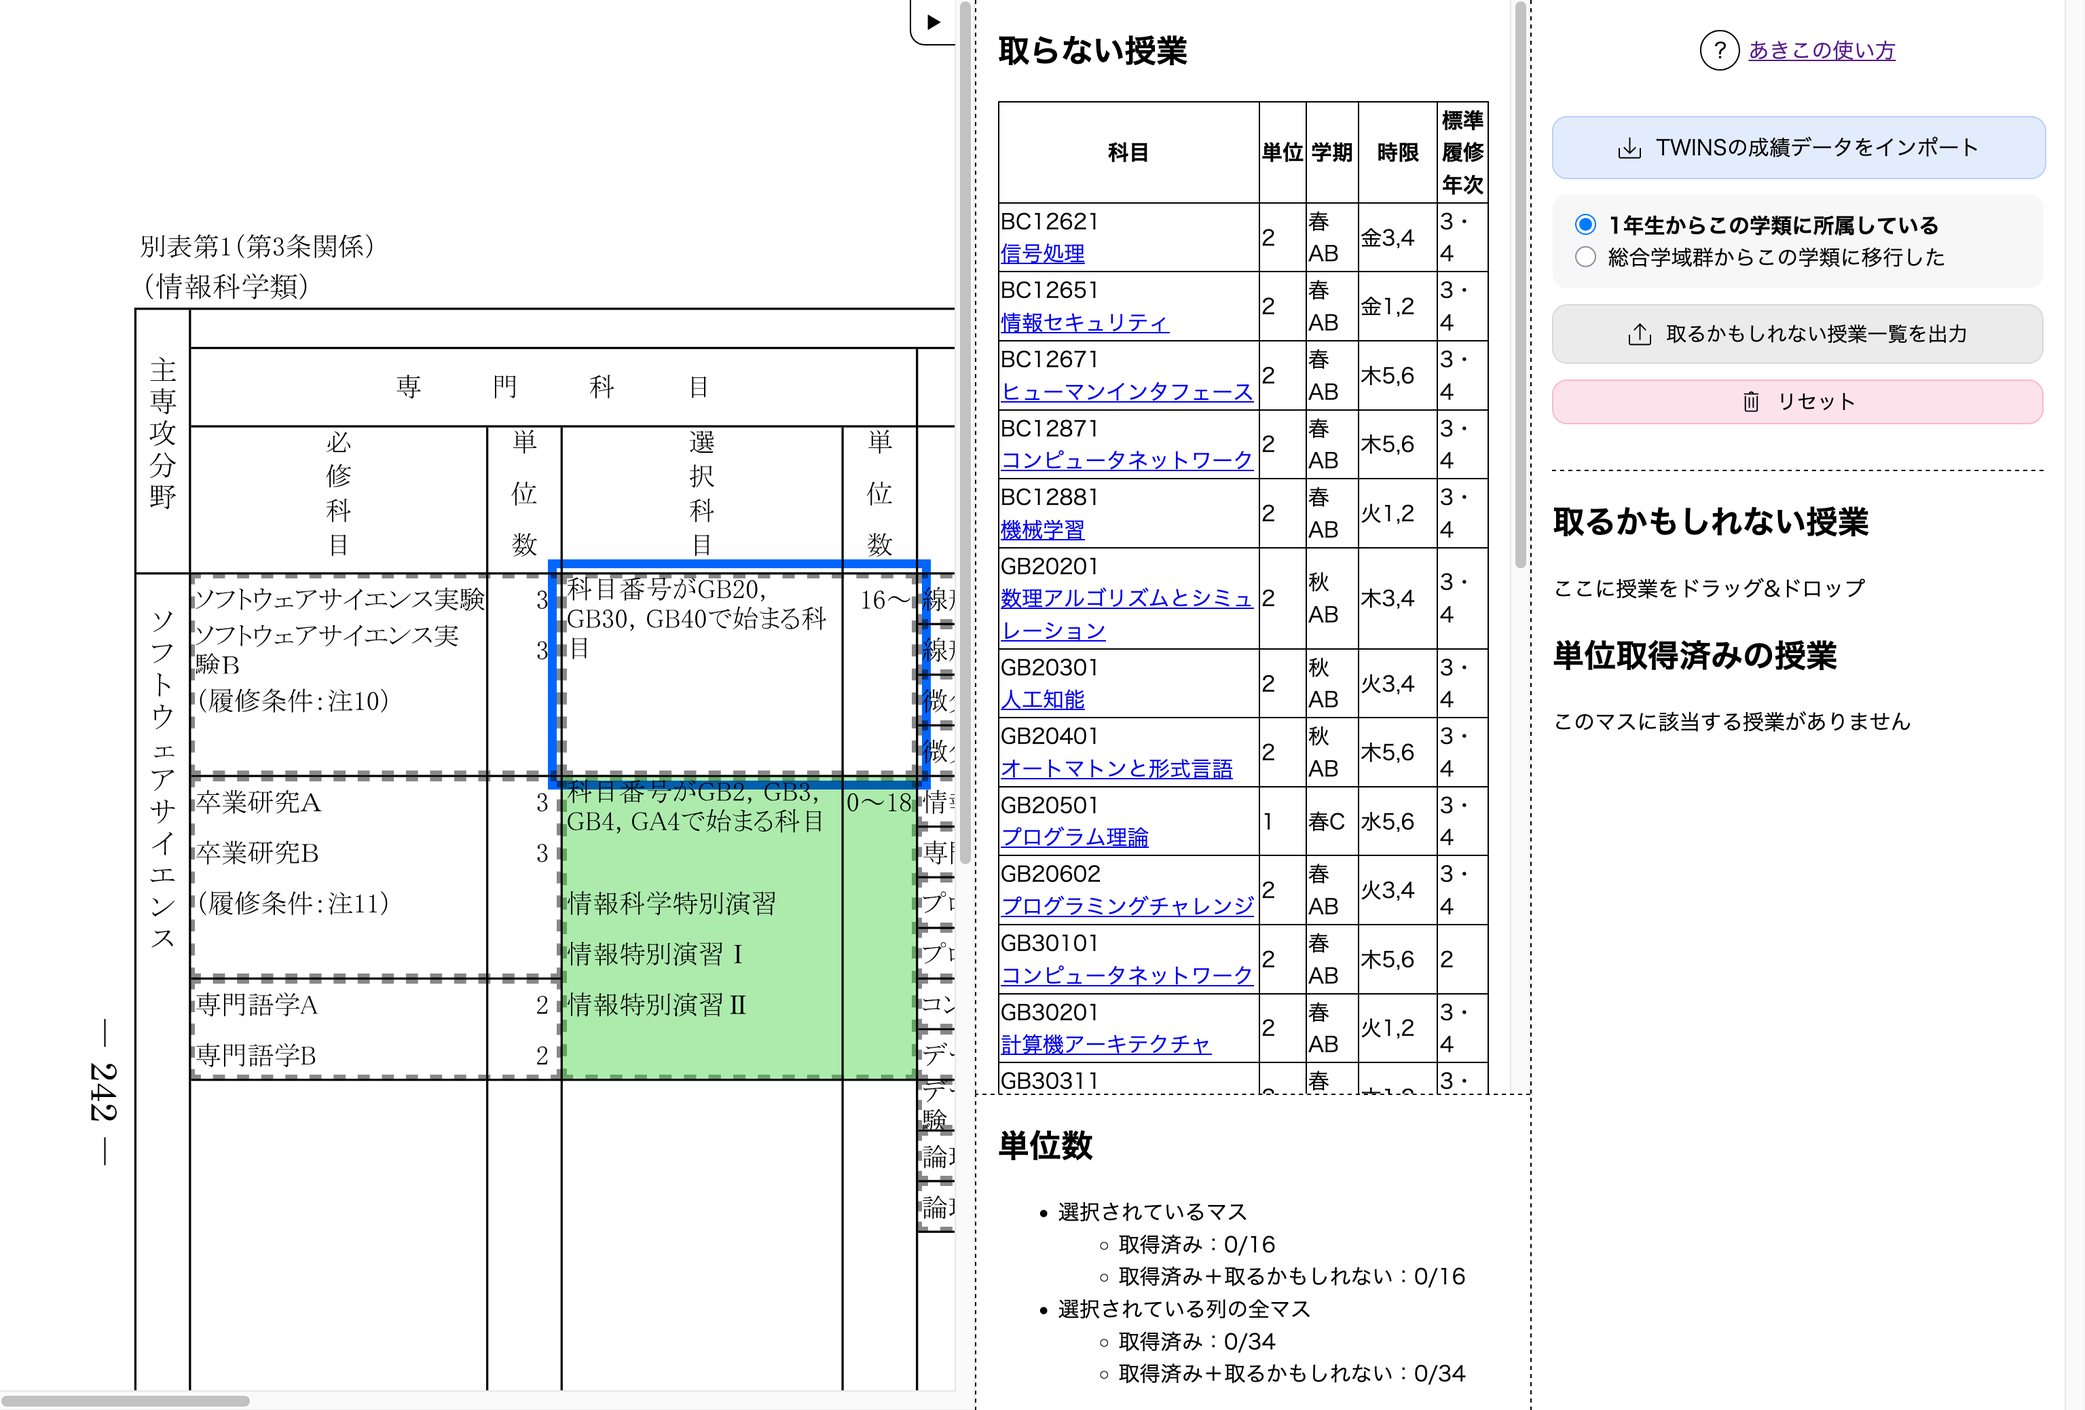
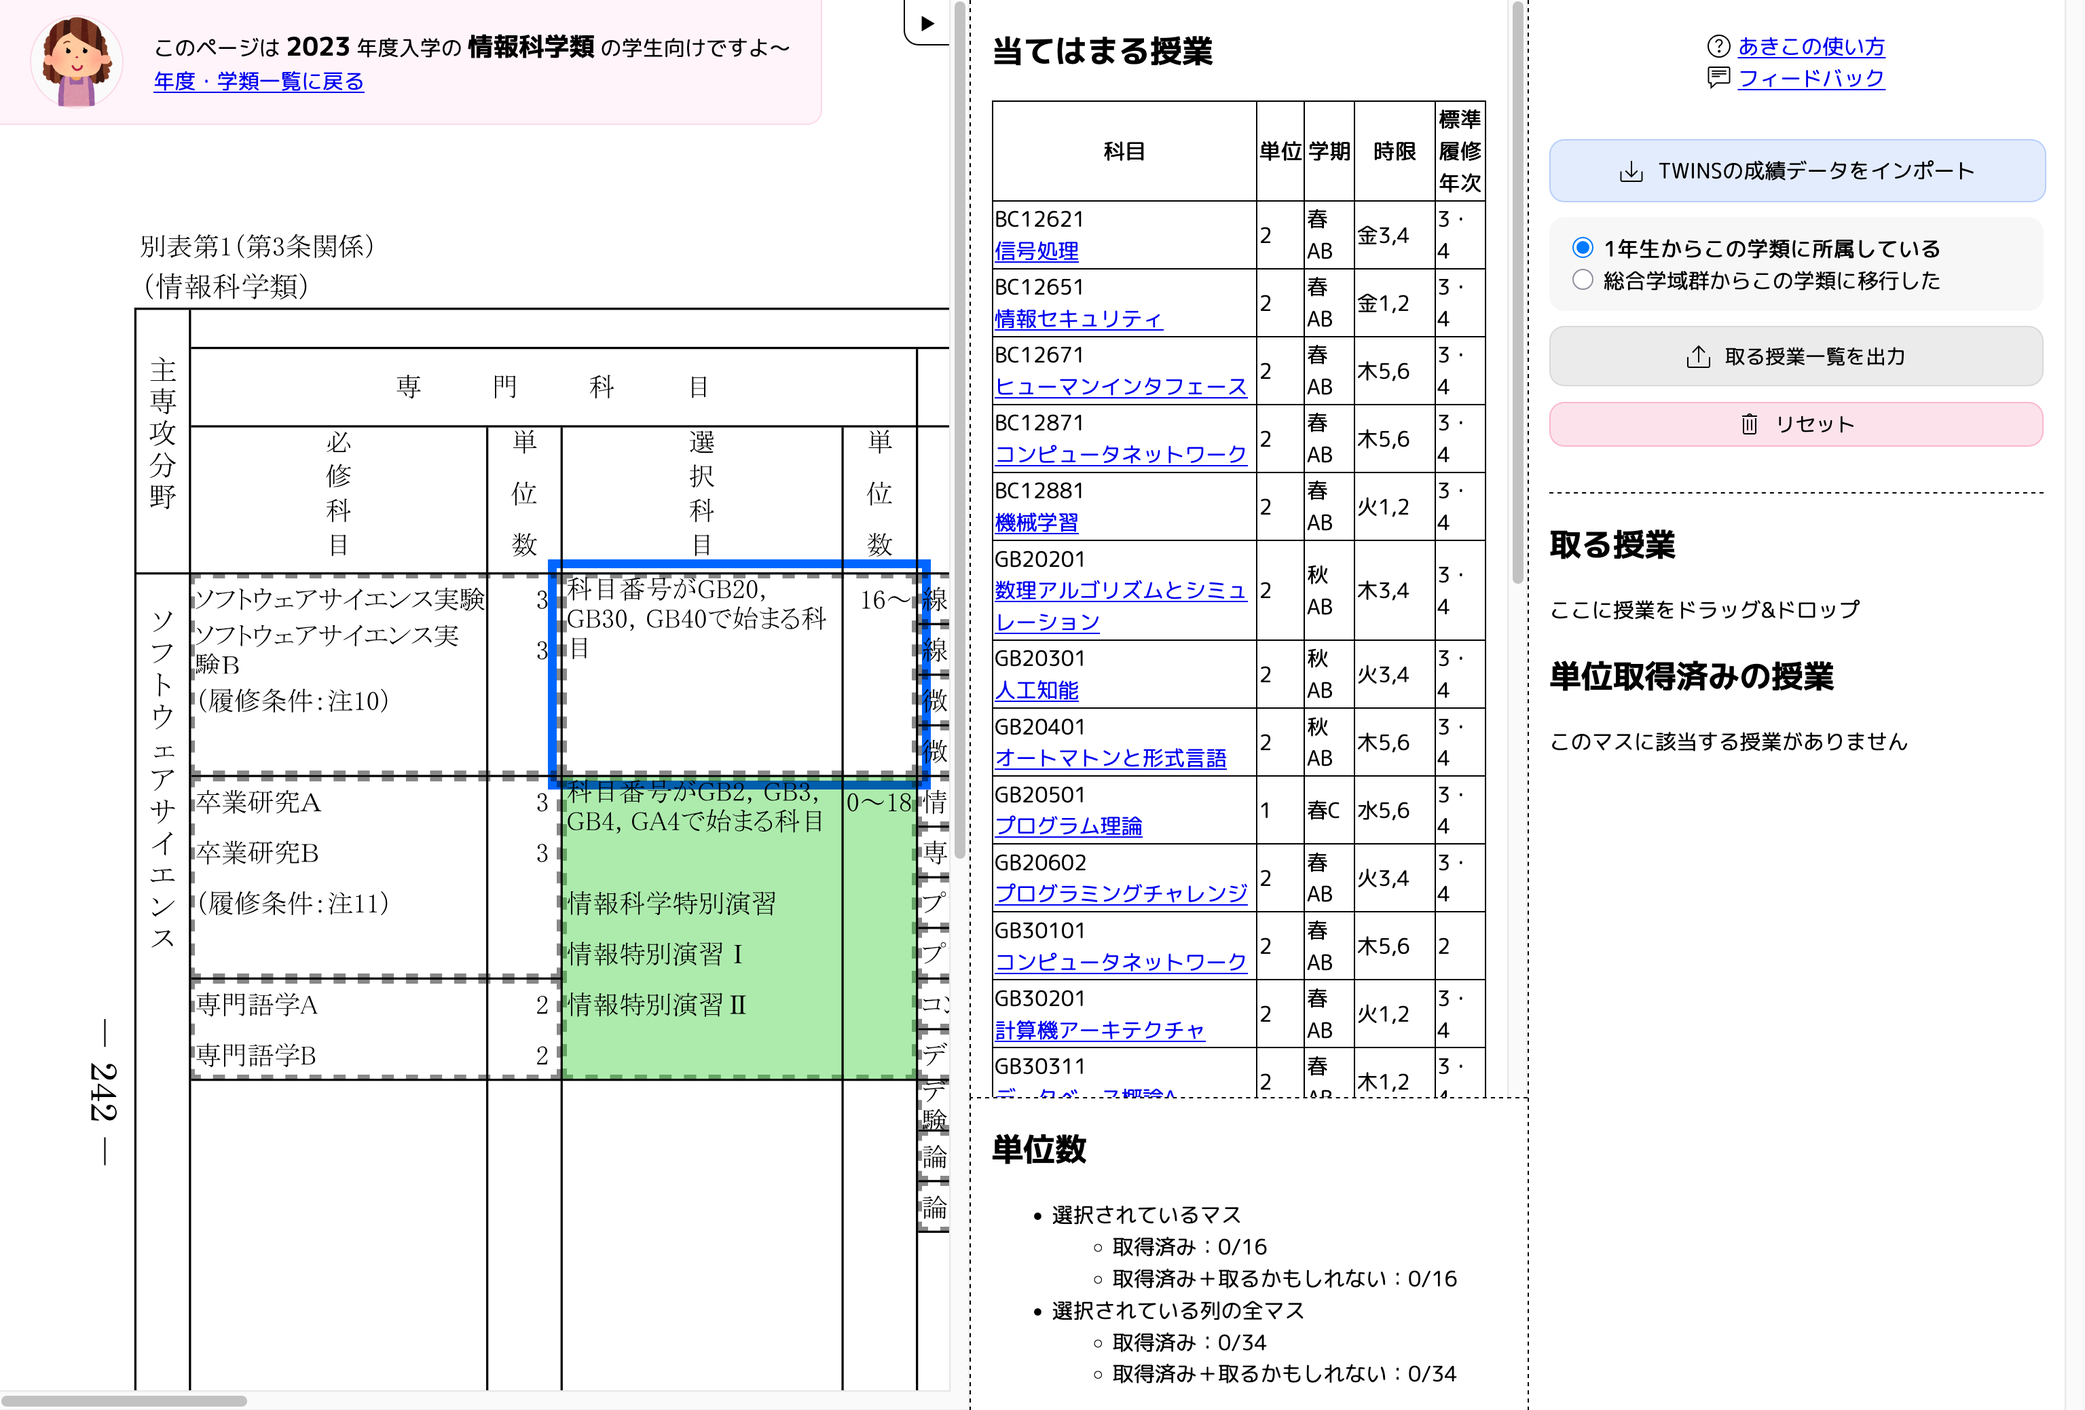
better wording

Changed region(s): [[0.4331, 0.0, 0.9899, 0.986], [0.0, 0.0, 0.3403, 0.0924], [0.5259, 0.0924, 0.5568, 0.1233]]

diff --git a/public/docs/help.html b/public/docs/help.html
@@ -193,14 +193,14 @@
 <h2 id="あきこの使い方">あきこの使い方</h2>
 <p>自分の学類と入学年度に対応するページを開きます。
 ここでは履修要覧とそれぞれのマスに当てはまる授業の一覧を見ることができます。
-マスを選択すると、当てはまる授業の一覧が「取らない授業」の欄に表示されます。
+マスを選択すると、当てはまる授業の一覧が「当てはまる授業」の欄に表示されます。
 それぞれのマスに該当する授業だけを見ることで、履修する授業を楽に探すことができます。
 <img src="images/cell-selected.png" />
-表示された授業を右側にドラッグ&amp;ドロップすることで、「取るかもしれない授業」に移動することができます。
-移動された授業の単位は「取るかもしれない」単位として計上されます。
+表示された授業を右側にドラッグ&amp;ドロップすることで、「取る授業」に移動することができます。
+移動された授業の単位は「取る」単位として計上されます。
 また、TWINSからダウンロードできる成績データをあきこにインポートすることで、現在の自分の履修状況を踏まえた授業探しが可能になります。
 <img src="images/grades-imported.png" />
-すでに成績がついている授業は「単位取得済みの授業」、まだ履修中で成績がついていない授業は「取るかもしれない授業」となります。
+すでに成績がついている授業は「単位取得済みの授業」、まだ履修中で成績がついていない授業は「取る授業」となります。
 単位の取得状況や合計を考慮することで、履修する授業がさらに探しやすくなります。</p>
 <h2
 id="twinsの成績データをダウンロードする手順">TWINSの成績データをダウンロードする手順</h2>
@@ -215,10 +215,9 @@ src="images/download-button.png" /></li>
 </ol>
 <p>これでダウンロードされるファイルがTWINSの成績ファイルです。
 このファイルをあきこにインポートすることで、現在の自分の履修状況を踏まえた授業探しをすることができます。</p>
-<h2
-id="取るかもしれない授業一覧ファイルの使い方">取るかもしれない授業一覧ファイルの使い方</h2>
-<p>あきこは「取るかもしれない」授業の科目番号の一覧をCSVファイルとして出力することができます。
-以下の手順でこのファイルをTWINSにインポートすることで、「取るかもしれない」に移動した授業をTWINSにまとめて履修登録することができます。</p>
+<h2 id="取る授業一覧ファイルの使い方">取る授業一覧ファイルの使い方</h2>
+<p>あきこは「取る授業」の科目番号の一覧をCSVファイルとして出力することができます。
+以下の手順でこのファイルをTWINSにインポートすることで、「取る授業」に移動した授業をTWINSにまとめて履修登録することができます。</p>
 <ol type="1">
 <li>TWINSにログインします。</li>
 <li>「履修」の中にある「履修登録・登録状況照会」タブを開きます。 <img
@@ -230,12 +229,12 @@ src="images/register-button.png" /></li>
 </ol>
 <blockquote>
 <p>⚠
-履修中の授業を「取るかもしれない授業」から「取らない授業」に移動してから、TWINSに「取るかもしれない授業」をインポートしても、移動した授業の履修解除はされません。</p>
+履修中の授業を「取る授業」から「当てはまる授業」に移動してから、TWINSに取る授業一覧をインポートしても、移動した授業の履修解除はされません。</p>
 </blockquote>
 <blockquote>
 <p>⚠
 上記の方法では、事前登録の必要がある授業をTWINS上で履修登録することができません。
-そのため、「取るかもしれない授業」のうち事前登録の授業はCSVファイルに含まれません。
+そのため、「取る授業」のうち事前登録の授業はCSVファイルに含まれません。
 事前登録の授業を履修する場合は、別途手動で事前登録をする必要があります。</p>
 </blockquote>
 </body>

diff --git a/public/shared.js b/public/shared.js
@@ -186,12 +186,12 @@ class CreditSumView extends HTMLElement {
         <ul>
           <li>選択されているマス<ul>
               <li>取得済み：<span></span></li>
-              <li>取得済み＋取るかもしれない：<span></span></li>
+              <li>取得済み＋取る授業：<span></span></li>
             </ul>
           </li>
           <li>選択されている列の全マス<ul>
               <li>取得済み：<span></span></li>
-              <li>取得済み＋取るかもしれない：<span></span></li>
+              <li>取得済み＋取る授業：<span></span></li>
             </ul>
           </li>
         </ul>
@@ -1557,7 +1557,7 @@ export function setup(
 
   mustGetElementById("reset").addEventListener("click", () => {
     const yes = window.confirm(
-      "インポートした成績データや「取るかもしれない授業」に移動した授業などが全てリセットされます。本当にリセットしますか？",
+      "インポートした成績データや「取る授業」に移動した授業などが全てリセットされます。本当にリセットしますか？",
     );
     if (yes) {
       localStorage.removeItem(localDataKey);

diff --git a/public/2021/coins/index.html b/public/2021/coins/index.html
@@ -53,7 +53,7 @@
       </div>
 
       <div id="left-bar">
-        <h2>取らない授業</h2>
+        <h2>当てはまる授業</h2>
         <div
           id="not-taken-course-container"
           class="course-container no-cell-selected show-id-name show-credit show-term show-when show-expects"
@@ -114,7 +114,7 @@
 
           <button id="export-might-take-course-ids" class="button">
             <img src="../../icons/export.svg" width="15px" />
-            <span>取るかもしれない授業一覧を出力</span>
+            <span>取る授業一覧を出力</span>
           </button>
 
           <button id="reset" class="button">
@@ -125,7 +125,7 @@
 
         <div class="separator"></div>
 
-        <h2>取るかもしれない授業</h2>
+        <h2>取る授業</h2>
         <div
           id="might-take-course-container"
           class="course-container contains-no-courses show-id-name show-credit show-term show-when"

diff --git a/public/2021/mast/index.html b/public/2021/mast/index.html
@@ -53,7 +53,7 @@
       </div>
 
       <div id="left-bar">
-        <h2>取らない授業</h2>
+        <h2>当てはまる授業</h2>
         <div
           id="not-taken-course-container"
           class="course-container no-cell-selected show-id-name show-credit show-term show-when show-expects"
@@ -114,7 +114,7 @@
 
           <button id="export-might-take-course-ids" class="button">
             <img src="../../icons/export.svg" width="15px" />
-            <span>取るかもしれない授業一覧を出力</span>
+            <span>取る授業一覧を出力</span>
           </button>
 
           <button id="reset" class="button">
@@ -125,7 +125,7 @@
 
         <div class="separator"></div>
 
-        <h2>取るかもしれない授業</h2>
+        <h2>取る授業</h2>
         <div
           id="might-take-course-container"
           class="course-container contains-no-courses show-id-name show-credit show-term show-when"

diff --git a/public/2022/coins/index.html b/public/2022/coins/index.html
@@ -53,7 +53,7 @@
       </div>
 
       <div id="left-bar">
-        <h2>取らない授業</h2>
+        <h2>当てはまる授業</h2>
         <div
           id="not-taken-course-container"
           class="course-container no-cell-selected show-id-name show-credit show-term show-when show-expects"
@@ -114,7 +114,7 @@
 
           <button id="export-might-take-course-ids" class="button">
             <img src="../../icons/export.svg" width="15px" />
-            <span>取るかもしれない授業一覧を出力</span>
+            <span>取る授業一覧を出力</span>
           </button>
 
           <button id="reset" class="button">
@@ -125,7 +125,7 @@
 
         <div class="separator"></div>
 
-        <h2>取るかもしれない授業</h2>
+        <h2>取る授業</h2>
         <div
           id="might-take-course-container"
           class="course-container contains-no-courses show-id-name show-credit show-term show-when"

diff --git a/public/2023/coins/index.html b/public/2023/coins/index.html
@@ -53,7 +53,7 @@
       </div>
 
       <div id="left-bar">
-        <h2>取らない授業</h2>
+        <h2>当てはまる授業</h2>
         <div
           id="not-taken-course-container"
           class="course-container no-cell-selected show-id-name show-credit show-term show-when show-expects"
@@ -114,7 +114,7 @@
 
           <button id="export-might-take-course-ids" class="button">
             <img src="../../icons/export.svg" width="15px" />
-            <span>取るかもしれない授業一覧を出力</span>
+            <span>取る授業一覧を出力</span>
           </button>
 
           <button id="reset" class="button">
@@ -125,7 +125,7 @@
 
         <div class="separator"></div>
 
-        <h2>取るかもしれない授業</h2>
+        <h2>取る授業</h2>
         <div
           id="might-take-course-container"
           class="course-container contains-no-courses show-id-name show-credit show-term show-when"

diff --git a/public/2023/klis-science/index.html b/public/2023/klis-science/index.html
@@ -53,7 +53,7 @@
       </div>
 
       <div id="left-bar">
-        <h2>取らない授業</h2>
+        <h2>当てはまる授業</h2>
         <div
           id="not-taken-course-container"
           class="course-container no-cell-selected show-id-name show-credit show-term show-when show-expects"
@@ -114,7 +114,7 @@
 
           <button id="export-might-take-course-ids" class="button">
             <img src="../../icons/export.svg" width="15px" />
-            <span>取るかもしれない授業一覧を出力</span>
+            <span>取る授業一覧を出力</span>
           </button>
 
           <button id="reset" class="button">
@@ -125,7 +125,7 @@
 
         <div class="separator"></div>
 
-        <h2>取るかもしれない授業</h2>
+        <h2>取る授業</h2>
         <div
           id="might-take-course-container"
           class="course-container contains-no-courses show-id-name show-credit show-term show-when"

diff --git a/public/2023/klis-system/index.html b/public/2023/klis-system/index.html
@@ -53,7 +53,7 @@
       </div>
 
       <div id="left-bar">
-        <h2>取らない授業</h2>
+        <h2>当てはまる授業</h2>
         <div
           id="not-taken-course-container"
           class="course-container no-cell-selected show-id-name show-credit show-term show-when show-expects"
@@ -114,7 +114,7 @@
 
           <button id="export-might-take-course-ids" class="button">
             <img src="../../icons/export.svg" width="15px" />
-            <span>取るかもしれない授業一覧を出力</span>
+            <span>取る授業一覧を出力</span>
           </button>
 
           <button id="reset" class="button">
@@ -125,7 +125,7 @@
 
         <div class="separator"></div>
 
-        <h2>取るかもしれない授業</h2>
+        <h2>取る授業</h2>
         <div
           id="might-take-course-container"
           class="course-container contains-no-courses show-id-name show-credit show-term show-when"

diff --git a/public/2023/mast/index.html b/public/2023/mast/index.html
@@ -53,7 +53,7 @@
       </div>
 
       <div id="left-bar">
-        <h2>取らない授業</h2>
+        <h2>当てはまる授業</h2>
         <div
           id="not-taken-course-container"
           class="course-container no-cell-selected show-id-name show-credit show-term show-when show-expects"
@@ -114,7 +114,7 @@
 
           <button id="export-might-take-course-ids" class="button">
             <img src="../../icons/export.svg" width="15px" />
-            <span>取るかもしれない授業一覧を出力</span>
+            <span>取る授業一覧を出力</span>
           </button>
 
           <button id="reset" class="button">
@@ -125,7 +125,7 @@
 
         <div class="separator"></div>
 
-        <h2>取るかもしれない授業</h2>
+        <h2>取る授業</h2>
         <div
           id="might-take-course-container"
           class="course-container contains-no-courses show-id-name show-credit show-term show-when"

diff --git a/public/2024/coins/index.html b/public/2024/coins/index.html
@@ -53,7 +53,7 @@
       </div>
 
       <div id="left-bar">
-        <h2>取らない授業</h2>
+        <h2>当てはまる授業</h2>
         <div
           id="not-taken-course-container"
           class="course-container no-cell-selected show-id-name show-credit show-term show-when show-expects"
@@ -114,7 +114,7 @@
 
           <button id="export-might-take-course-ids" class="button">
             <img src="../../icons/export.svg" width="15px" />
-            <span>取るかもしれない授業一覧を出力</span>
+            <span>取る授業一覧を出力</span>
           </button>
 
           <button id="reset" class="button">
@@ -125,7 +125,7 @@
 
         <div class="separator"></div>
 
-        <h2>取るかもしれない授業</h2>
+        <h2>取る授業</h2>
         <div
           id="might-take-course-container"
           class="course-container contains-no-courses show-id-name show-credit show-term show-when"

diff --git a/public/2025/coins/index.html b/public/2025/coins/index.html
@@ -53,7 +53,7 @@
       </div>
 
       <div id="left-bar">
-        <h2>取らない授業</h2>
+        <h2>当てはまる授業</h2>
         <div
           id="not-taken-course-container"
           class="course-container no-cell-selected show-id-name show-credit show-term show-when show-expects"
@@ -114,7 +114,7 @@
 
           <button id="export-might-take-course-ids" class="button">
             <img src="../../icons/export.svg" width="15px" />
-            <span>取るかもしれない授業一覧を出力</span>
+            <span>取る授業一覧を出力</span>
           </button>
 
           <button id="reset" class="button">
@@ -125,7 +125,7 @@
 
         <div class="separator"></div>
 
-        <h2>取るかもしれない授業</h2>
+        <h2>取る授業</h2>
         <div
           id="might-take-course-container"
           class="course-container contains-no-courses show-id-name show-credit show-term show-when"

diff --git a/scripts/template-app-index.html b/scripts/template-app-index.html
@@ -53,7 +53,7 @@
       </div>
 
       <div id="left-bar">
-        <h2>取らない授業</h2>
+        <h2>当てはまる授業</h2>
         <div
           id="not-taken-course-container"
           class="course-container no-cell-selected show-id-name show-credit show-term show-when show-expects"
@@ -114,7 +114,7 @@
 
           <button id="export-might-take-course-ids" class="button">
             <img src="../../icons/export.svg" width="15px" />
-            <span>取るかもしれない授業一覧を出力</span>
+            <span>取る授業一覧を出力</span>
           </button>
 
           <button id="reset" class="button">
@@ -125,7 +125,7 @@
 
         <div class="separator"></div>
 
-        <h2>取るかもしれない授業</h2>
+        <h2>取る授業</h2>
         <div
           id="might-take-course-container"
           class="course-container contains-no-courses show-id-name show-credit show-term show-when"
